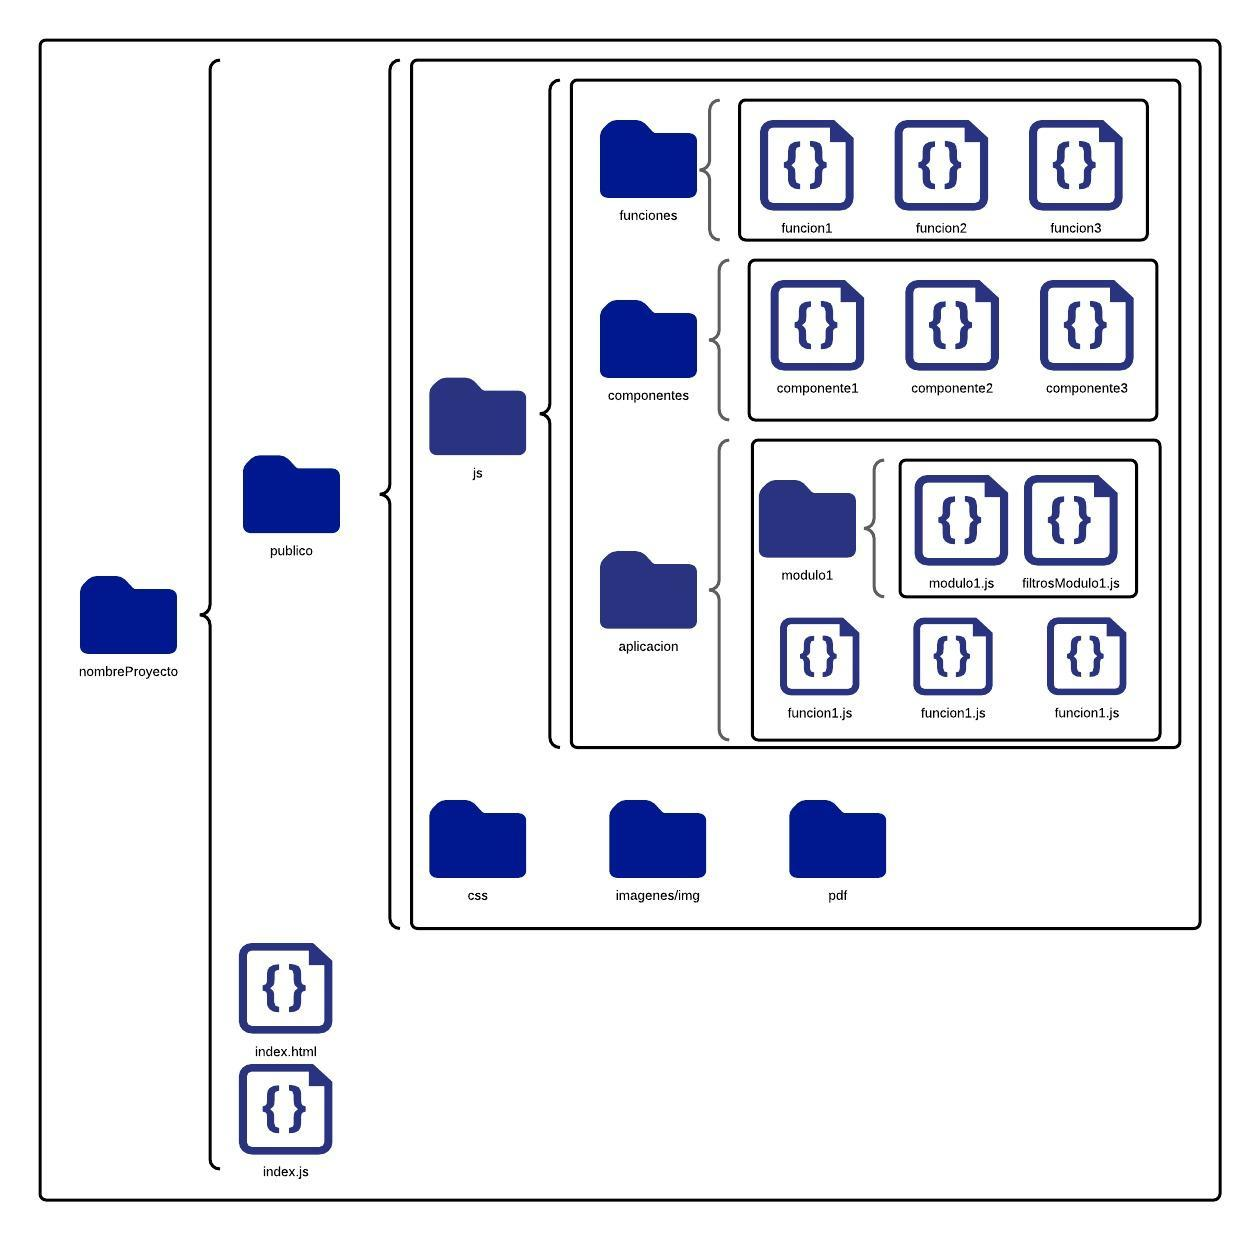
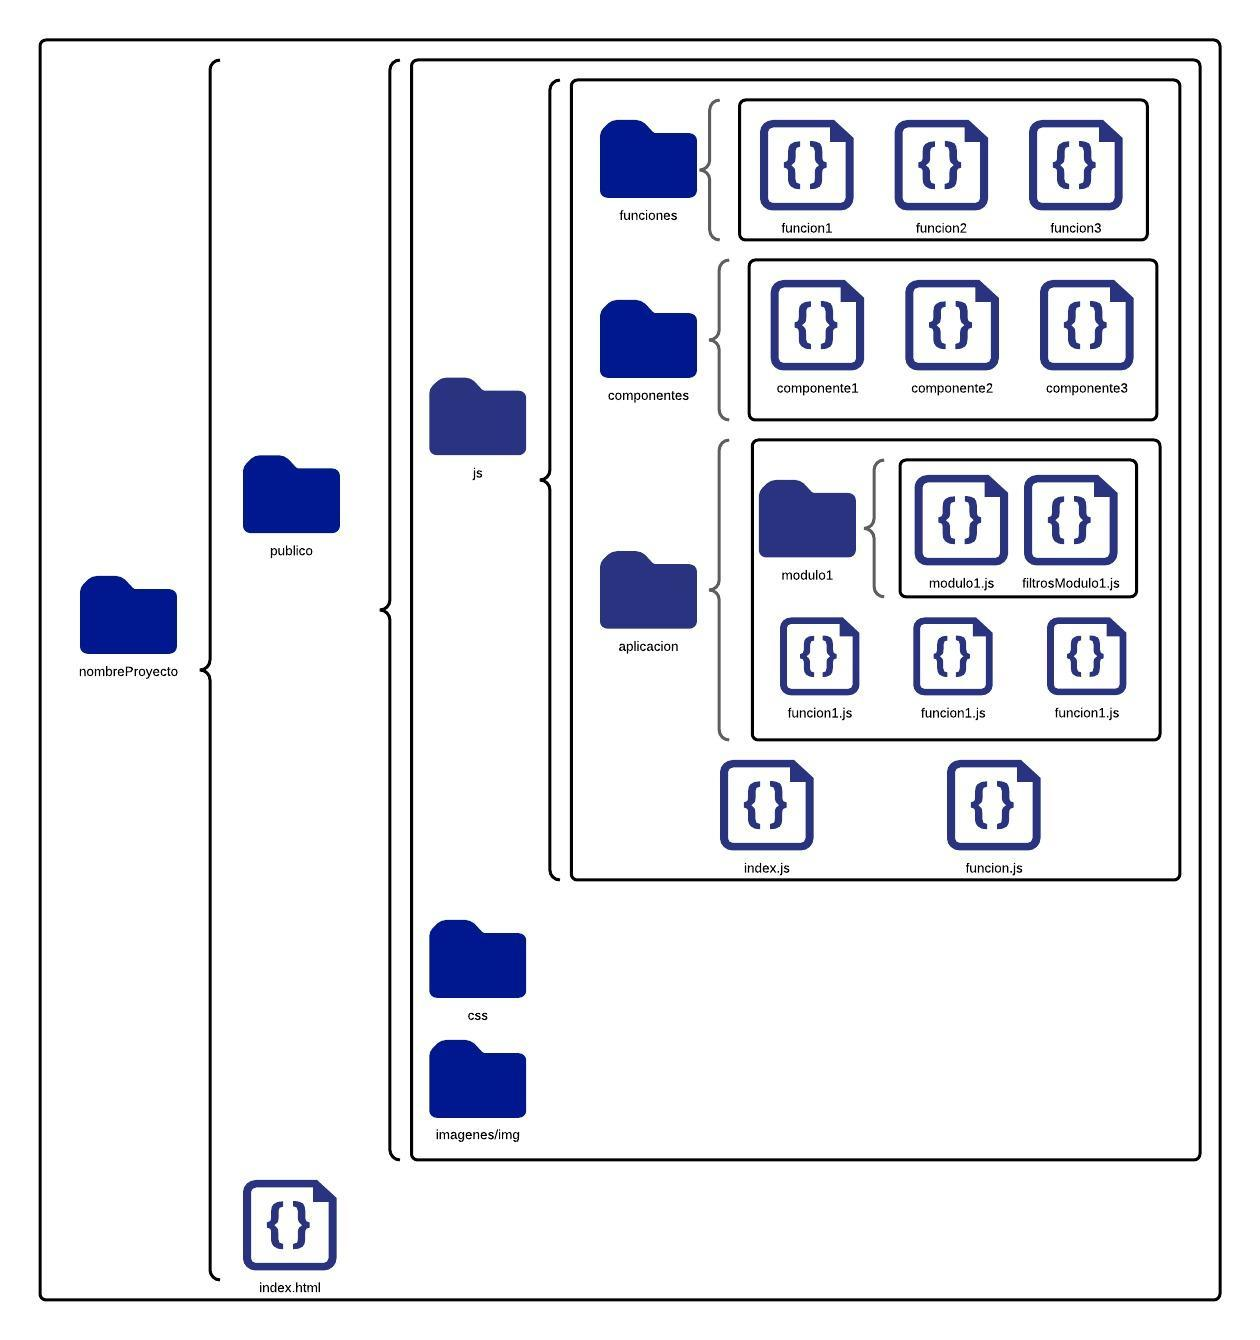
commit

diff --git a/tutoriales/organizacion.md b/tutoriales/organizacion.md
@@ -2,11 +2,11 @@ Para la organizacion de nuestro proyecto se debe cumplir lo siguiente.
 
 La carpeta principal se debe llamar igual que el proyecto esto con el fin de que nuestro proyecto sea fácil de identificar.
 
-Dentro de la carpeta principal se encontra una sola carpeta llamada **publico** al igual que los archivos principales que seran llamados **index.js** e **index.html**.
+Dentro de la carpeta principal se encontra una sola carpeta llamada **publico** al igual que el archivo principal que va a contener toda nuestra estructura **HTML** el cual sera llamado **index.html**. Creamos nuestro archivo html con su estructura basica Insertamos el link de la hoja de estilos en la cabecera Insertamos el script en el body que referencia a nuesto index.js. Insertar en la cabecera el link a bootstrap que se encuentra en (referencia a bootstrap). Insertar en el body del html el script a bootstrap que se encuentra en (referencia a bootstrap).
 
-Dentro de nuestra carpeta **publico** se encontraran las carpetas relacionadas con la aplicacion, estas serian las carpetas *js, css, img/imagenes, pdf, recibos, etc*.
+Dentro de nuestra carpeta **publico** se encontraran las carpetas relacionadas con la aplicacion, estas serian las carpetas *js, css, img/imagenes, etc*.
 
-Dentro de nuestra carpeta **js** deben de ir todos los archivos **.js** (a excepción del index.js). Esta carpeta se organizará de la siguiente manera: en la raíz de la carpeta se encontrarán todos los componentes dentro de su propia carpeta llamada **componentes**, se creará una carpeta llamada **funciones** en la cual se guardaran todas las funciones relacionadas al framework, se creará una carpeta exclusiva para los módulos del proyecto llamada **aplicación**.
+Dentro de nuestra carpeta **js** deben de ir **todos** los archivos **.js**. Esta carpeta se organizará de la siguiente manera: en la raíz de la carpeta se encontrarán todos los archivos *.js* que componentes dentro de su propia carpeta llamada **componentes**, se creará una carpeta llamada **funciones** en la cual se guardaran todas las funciones relacionadas al framework, se creará una carpeta exclusiva para los módulos del proyecto llamada **aplicación**.
 
 Dentro de la carpeta **aplicacion** en la raíz de dicha carpeta se encontrarán todas las funciones relacionadas con la aplicación, también se debe crear una carpeta por cada módulo que se cree y cada uno tendrá de raíz dos archivos llamados **módulo.js** y **filtrosModulo.js**.
 
